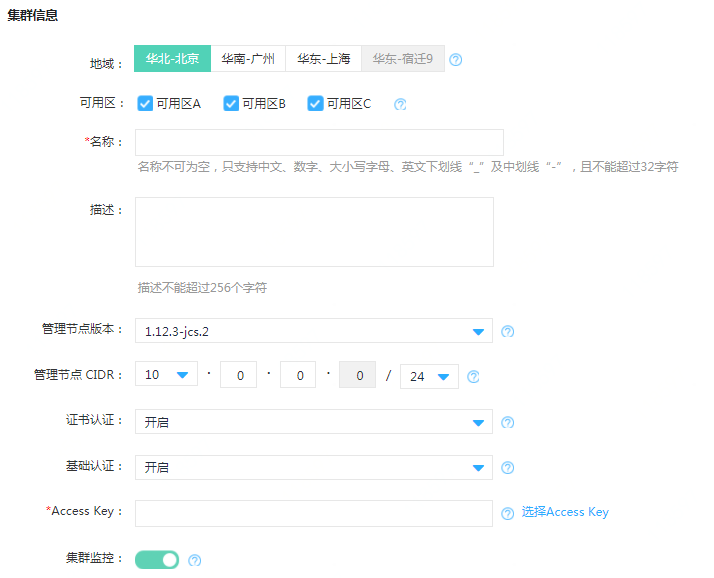
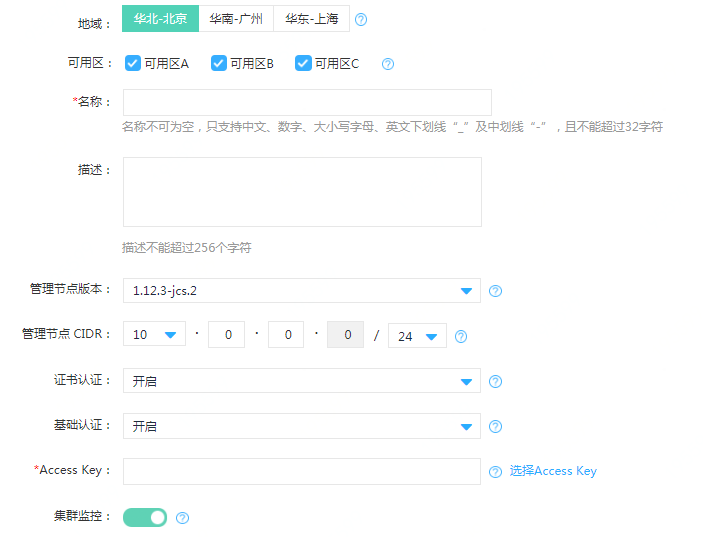
更新工作节点组样式

diff --git a/documentation/Elastic-Compute/JCS-for-Kubernetes/Getting-Started/Create-to-Cluster.md b/documentation/Elastic-Compute/JCS-for-Kubernetes/Getting-Started/Create-to-Cluster.md
@@ -22,17 +22,17 @@
 ## 创建集群
 
  1. 打开控制台，选择[弹性计算>>Kubernetes集群>>集群服务>>集群](https://cns-console.jdcloud.com/host/kubernetes/list)   
- ![](https://github.com/jdcloudcom/cn/blob/edit/image/Elastic-Compute/JCS-for-Kubernetes/新建Kubernetes集群集群信息.png)。  
- 2. 地域及可用区：选择创建地域，点击“创建”按钮，建议您根据业务情况选择集群所在地域及可用区；默认选中指定地域下的所有可用区，建议使用默认模式；也可取消选中某个或某几个可用区，但需要至少保证有一个可用区被选中。
+ ![新建集群](../../../../image/Elastic-Compute/JCS-for-Kubernetes/新建Kubernetes集群集群信息.png)。  
+ 2. 选择地域及可用区：选择创建地域，点击“创建”按钮，建议您根据业务情况选择集群所在地域及可用区；默认选中指定地域下的所有可用区，建议使用默认模式；也可取消选中某个或某几个可用区，但需要至少保证有一个可用区被选中。
 
  3. 设置名称、描述：名称不可为空，只支持中文、数字、大小写字母、英文下划线 “ _ ”及中划线 “ - ”，且不能超过32字符；描述为非必填项，长度不超过256字符。
 
- 4. 集群版本：目前支持1.12.3版本。
+ 4. 管理节点版本：目前支持1.12.3版本。
 
  5. 管理节点CIDR：与其他私有网络的CIDR不可重叠，CIDR掩码取值范围为24 ~ 27。CIDR的设置规则参考[VPC配置](https://docs.jdcloud.com/cn/virtual-private-cloud/vpc-configuration)帮助文档。
 
  6. 证书认证、基础认证：默认全部开启，建议全部保留；需要至少保留一个为开启状态；
-  * 证书认证：基于base64编码的证书，用于客户端到集群服务端点的认证；建议开启证书认证;
+  * 证书认证：基于base64编码的证书，用于客户端到集群服务端点的认证；建议开启证书认证；
   * 基础认证：开启后允许客户端使用用户名、密码在集群服务端点认证。
 
  7. 添加Accesskey：选择启动状态下的Accesskey；如果无可用Access Key，请前往Access Key管理页面创建新的Access Key，并在开启状态。可参考[Accesskey管理](https://docs.jdcloud.com/cn/account-management/accesskey-management)。
@@ -52,7 +52,7 @@
   * 为了避免因CIDR重叠导致工作节点相关的子网无法创建，建议新建私有网络；
   * 私有网络CIDR取值范围为16 ~ 18。
 
-2. 选择工作节点组版本：默认选择当前最新的节点组版本，点击下拉列表显示当前工作节点组支持的所有版本。
+2. 选择工作节点组版本：默认选择与当前最新的节点组版本，点击下拉列表显示当前工作节点组支持的所有版本。
 
 3. 规格：根据具体业务情况选择不同云主机规格类型，支持云主机第二代规格。可参考[实例规格类型](https://docs.jdcloud.com/cn/virtual-machines/instance-type-family)。
 

diff --git a/documentation/Elastic-Compute/JCS-for-Kubernetes/Operation-Guide/NodeGroup/Create-NodeGroup.md b/documentation/Elastic-Compute/JCS-for-Kubernetes/Operation-Guide/NodeGroup/Create-NodeGroup.md
@@ -18,9 +18,9 @@
  6. 名称：默认名称为nodegroup1，名称不可为空，只支持中文、数字、大小写字母、英文下划线“_”及中划线“-”，且不能超过32字符。同一集群下的工作节点组不可重名。
 
  7. 以下为高级选项，非必填项：  
-    * 描述：描述不能超过256个字符
-    * 系统盘：本地盘，容量默认为100G，不可修改。
-    * 自动修复：开启后将对非running或ready状态的工作节点进行自动修复。更多详情参考[自动修复说明](https://docs.jdcloud.com/cn/jcs-for-kubernetes/auto-repair)。  
+    * 描述：描述不能超过256个字符；
+    * 系统盘：本地盘，容量默认为100G，不可修改；
+    * 自动修复：开启后将对非running或ready状态的工作节点进行自动修复。更多详情参考[自动修复说明](https://docs.jdcloud.com/cn/jcs-for-kubernetes/auto-repair)；  
     * 标签：设置添加到工作节点上标签的键、值；键由前缀和名称组成；前缀不超过253字符，由DNS子域名组成，每个子域名不超过63字符，且必须以小写字母数字起止，可包含“-”“.”、大小写字母和数字；名称和值均不能超过63字符，必须以大小写字母或数字起止，可包含“-”“ _ ”“.”、大小写字母和数字；最多可添加五组标签。
 
  8. 完成相关设置后，点击确定，即可进入弹性计算>>Kubernetes集群>>集群服务>>工作节点组，查看创建的工作节点组。
